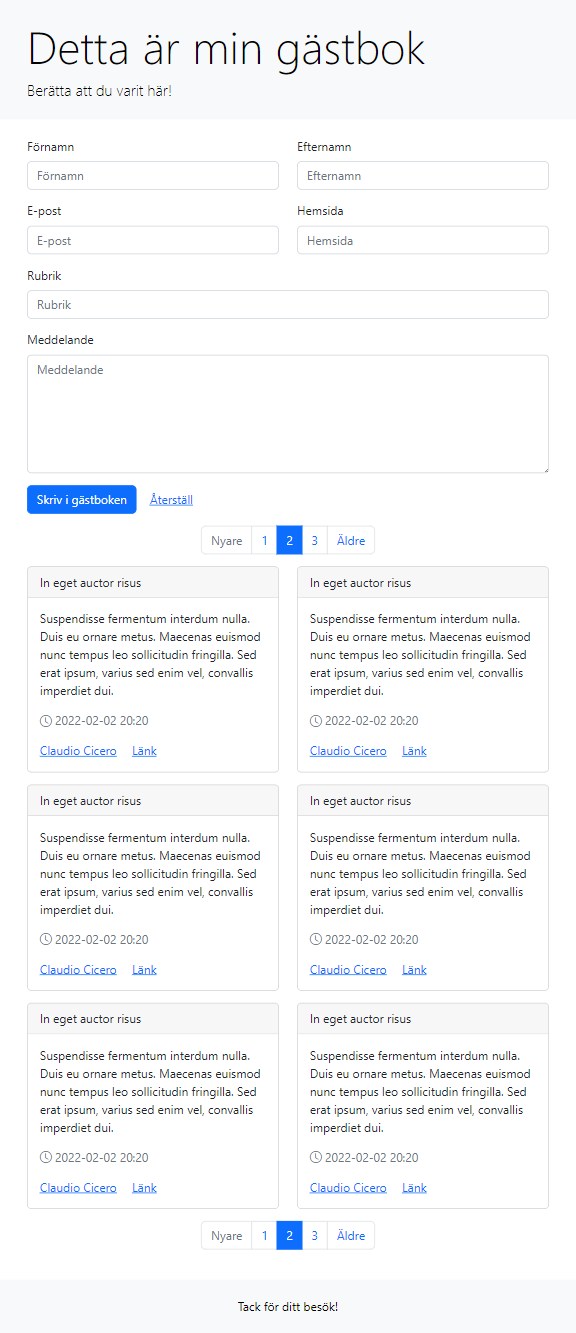
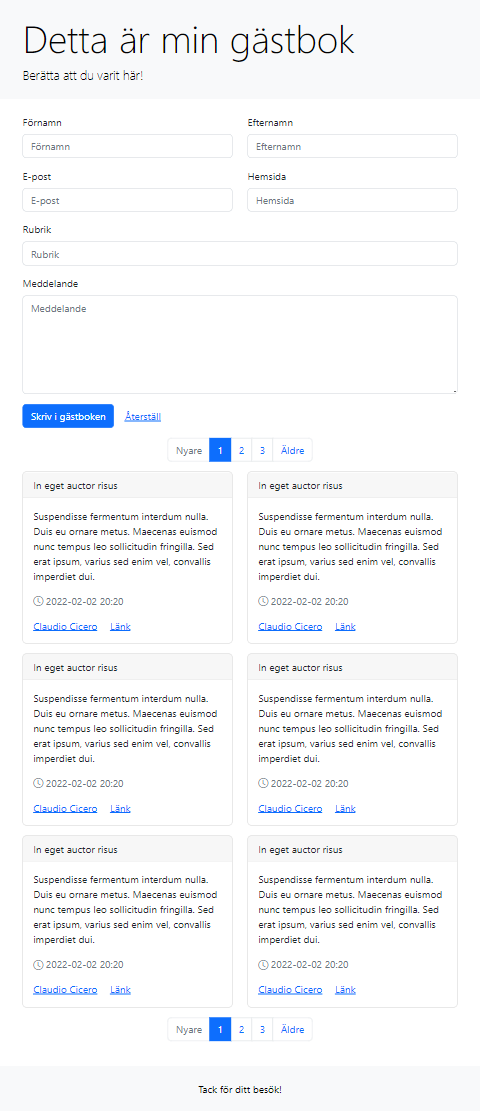
Updated assignments

diff --git a/webbutveckling_1/projekt/projekt_gastbok/index.php b/webbutveckling_1/projekt/projekt_gastbok/index.php
@@ -4,42 +4,58 @@
     <meta charset="utf-8">
     <meta name="viewport" content="width=device-width, initial-scale=1">
     <title>Gästbok</title>
-    <link href="https://cdn.jsdelivr.net/npm/bootstrap@5.2.2/dist/css/bootstrap.min.css" rel="stylesheet" integrity="sha384-Zenh87qX5JnK2Jl0vWa8Ck2rdkQ2Bzep5IDxbcnCeuOxjzrPF/et3URy9Bv1WTRi" crossorigin="anonymous">
-    <link rel="stylesheet" href="https://cdn.jsdelivr.net/npm/bootstrap-icons@1.9.1/font/bootstrap-icons.css">
-    <script src="https://cdn.jsdelivr.net/npm/bootstrap@5.2.2/dist/js/bootstrap.bundle.min.js" integrity="sha384-OERcA2EqjJCMA+/3y+gxIOqMEjwtxJY7qPCqsdltbNJuaOe923+mo//f6V8Qbsw3" crossorigin="anonymous"></script>
+    <!--
+    Här ska du lägga in länkar till Bootstraps css- och js-filer
+    -->
+    <link href="https://cdn.jsdelivr.net/npm/bootstrap@5.2.2/dist/css/bootstrap.min.css" rel="stylesheet">
+    <link href="https://cdn.jsdelivr.net/npm/bootstrap-icons@1.9.1/font/bootstrap-icons.css" rel="stylesheet">
+    <script src="https://cdn.jsdelivr.net/npm/bootstrap@5.2.2/dist/js/bootstrap.bundle.min.js"></script>
 </head>
 <body>
 
-<div class="text-bg-light">
+<!--
+Här ska du sätta bakgrundsfärgen till `light`
+Du ska också ha en `container` med padding 4 uppåt och nedåt
+Den största rubriken ska ha den största display-klassen
+Texten under huvudrubriken ska ha klassen `lead` och det ska inte finnas någon nedre marginal på elementet
+-->
+<header class="text-bg-light">
     <div class="container py-4">
         <h1 class="display-1">Detta är min gästbok</h1>
         <p class="lead mb-0">Berätta att du varit här!</p>
     </div>
-</div>
+</header>
 
-<div class="container py-4">
-    <form class="mb-3">
+<!--
+Även denna container ska ha padding 4 uppåt och nedåt
+Formuläret ska ha marginal 3 nedåt
+De fyra översta inputfälten ska befinna sig i rad-kolumner. På riktigt smala skärmar (ex telefon) ska det bara vara en kolumn men vid bredare skärmar ska det vara två kolumner. Se facit-bilderna.
+Input-fälten bör ha en marginal på 3 nedåt
+Tänk på att länka input-fält med deras label-element så att man kan klicka på labeln för att fokusera på fältet
+-->
+<section class="container py-4">
+    <form method="get" class="mb-3">
         <div class="row row-cols-1 row-cols-md-2">
             <div class="col mb-3">
                 <label for="first_name" class="form-label">Förnamn</label>
-                <input type="text" class="form-control" id="first_name" placeholder="Förnamn" autofocus>
+                <input type="text" name="first_name" class="form-control" id="first_name" placeholder="Förnamn" autofocus>
             </div>
             <div class="col mb-3">
                 <label for="last_name" class="form-label">Efternamn</label>
-                <input type="text" class="form-control" id="last_name" placeholder="Efternamn">
+                <input type="text" name="last_name" class="form-control" id="last_name" placeholder="Efternamn">
             </div>
             <div class="col mb-3">
                 <label for="email" class="form-label">E-post</label>
-                <input type="email" class="form-control" id="email" placeholder="E-post">
+                <input type="email" name="email" class="form-control" id="email" placeholder="E-post">
             </div>
             <div class="col mb-3">
                 <label for="homepage" class="form-label">Hemsida</label>
-                <input type="text" class="form-control" id="homepage" placeholder="Hemsida">
+                <input type="text" name="homepage" class="form-control" id="homepage" placeholder="Hemsida">
             </div>
         </div>
         <div class="mb-3">
             <label for="title" class="form-label">Rubrik</label>
-            <input type="text" class="form-control" id="title" placeholder="Rubrik">
+            <input type="text" name="title" class="form-control" id="title" placeholder="Rubrik">
         </div>
         <div class="mb-3">
             <label for="message" class="form-label">Meddelande</label>
@@ -51,16 +67,27 @@
         </div>
     </form>
 
+    <!--
+    Pagineringen ska vara centretad på sidan
+    "Nyare" ska vara `disabled` och 1:an ska vara aktiv
+    Får du tid över får du gärna försöka få pagineringen att fungera
+    -->
     <nav aria-label="pagination">
         <ul class="pagination justify-content-center">
             <li class="page-item disabled"><a class="page-link">Nyare</a></li>
-            <li class="page-item"><a class="page-link" href="#">1</a></li>
-            <li class="page-item active" aria-current="page"><a class="page-link" href="#">2</a></li>
+            <li class="page-item active"><a class="page-link" href="#">1</a></li>
+            <li class="page-item" aria-current="page"><a class="page-link" href="#">2</a></li>
             <li class="page-item"><a class="page-link" href="#">3</a></li>
             <li class="page-item"><a class="page-link" href="#">Äldre</a></li>
         </ul>
     </nav>
 
+    <!--
+    Inläggen ska presenteras i kort som i sin tur ligger i rad-kolumner
+    På smala skärmar ska de visas i en kolumn, på lite större på två. På riktigt stora skärmar ska de visas i fyra kolumner
+    Innan tiden ska du använda en ikon från Bootstrap icons. Den heter `clock` och bör gå att hitta via deras hemsida
+    Namnet ska vara länkat till besökarens e-post-address medan länken ska vara länkad till besökarens hemsida
+    -->
     <div class="row row-cols-1 row-cols-sm-2 row-cols-lg-4">
         <?php foreach(range(1,6) as $i): ?>
         <div class="col mb-3">
@@ -77,22 +104,31 @@
         <?php endforeach; ?>
     </div>
 
+    <!--
+    Pagineringen ska vara centretad på sidan
+    "Nyare" ska vara `disabled` och 1:an ska vara aktiv
+    Får du tid över får du gärna försöka få pagineringen att fungera
+    -->
     <nav aria-label="pagination">
         <ul class="pagination justify-content-center">
             <li class="page-item disabled"><a class="page-link">Nyare</a></li>
-            <li class="page-item"><a class="page-link" href="#">1</a></li>
-            <li class="page-item active" aria-current="page"><a class="page-link" href="#">2</a></li>
+            <li class="page-item active"><a class="page-link" href="#">1</a></li>
+            <li class="page-item" aria-current="page"><a class="page-link" href="#">2</a></li>
             <li class="page-item"><a class="page-link" href="#">3</a></li>
             <li class="page-item"><a class="page-link" href="#">Äldre</a></li>
         </ul>
     </nav>
-</div>
+</section>
 
-<div class="text-bg-light">
+<!--
+Sidfoten ska ha samma bakgrundsfärg som det översta fältet
+Texten ska vara centrerad på sidan
+-->
+<footer class="text-bg-light">
     <div class="container py-4">
         <p class="text-center mb-0">Tack för ditt besök!</p>
     </div>
-</div>
+</footer>
 
 </body>
 </html>

diff --git a/webbutveckling_1/projekt/projekt_gastbok/README.md b/webbutveckling_1/projekt/projekt_gastbok/README.md
@@ -18,10 +18,13 @@ I denna uppgift ska du få testa att använda dig av Bootstrap. För att kunna g
 
 ~~~html
 <!-- Latest compiled and minified CSS -->
-<link href="https://cdn.jsdelivr.net/npm/bootstrap@5.2.1/dist/css/bootstrap.min.css" rel="stylesheet">
+<link href="https://cdn.jsdelivr.net/npm/bootstrap@5.2.2/dist/css/bootstrap.min.css" rel="stylesheet">
+
+<!-- Latest compiled Bootstrap icons -->
+<link href="https://cdn.jsdelivr.net/npm/bootstrap-icons@1.9.1/font/bootstrap-icons.css" rel="stylesheet">
 
 <!-- Latest compiled JavaScript -->
-<script src="https://cdn.jsdelivr.net/npm/bootstrap@5.2.1/dist/js/bootstrap.bundle.min.js"></script>
+<script src="https://cdn.jsdelivr.net/npm/bootstrap@5.2.2/dist/js/bootstrap.bundle.min.js"></script>
 ~~~
 
 ## Läs på
@@ -33,7 +36,9 @@ Nästa steg är att försöka förstå hur du använder dig av Bootstraps funkti
 
 ## Regler & tips
 
-1. Ditt slutresultat ska se typ exakt ut som facitbilderna
-2. Du får inte skriva någon egen css-kod
-3. Du kan behöva ändra html-strukturen en aning
-4. Inga class- och for-attribut ska vara tomma. Använd dem för ledtrådar för hur du ska lösa uppgiften.
+1. Ditt slutresultat ska se ut som facitbilderna:
+    - [Facit för iPhone 12 Pro](facit_iphone_12_pro.png)
+    - [Facit för iPad mini (stående)](facit_ipad_mini_vertical.png)
+    - [Facit för iPad mini (liggande)](facit_ipad_mini_horizontal.png)
+2. Du får inte skriva någon *egen* css-kod. Du får endast använda dig av Bootstraps klasser.
+3. Använd ledtrådarna i html-filen för att lista ut hur du ska lösa designuppgiften
